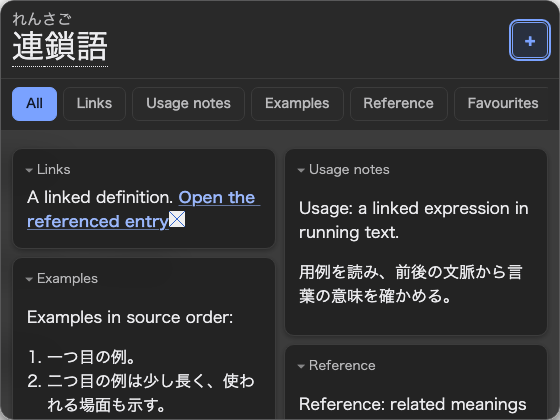
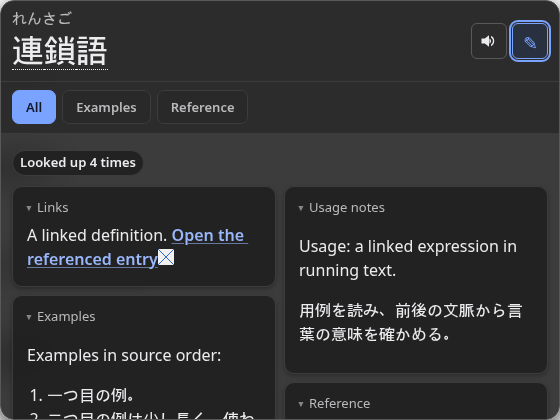
fix: limit popup tabs to favourites and groups

diff --git a/extension/render/popup.js b/extension/render/popup.js
@@ -1345,8 +1345,16 @@
       ? renderContext.dictionaryTabGroups : [];
     const dictionaryDisplayNames = createDictionaryDisplayNames(dictionaries, presentation);
     const available = new Set(dictionaries);
+    const grouped = new Set(groups.flatMap(({ dictionaries: members }) =>
+      Array.isArray(members) ? members : []));
+    const availableGroups = groups.flatMap((group) => {
+      const members = Array.isArray(group.dictionaries)
+        ? group.dictionaries.filter((title) => available.has(title)) : [];
+      return members.length > 0 ? [{ ...group, dictionaries: members }] : [];
+    });
     const favourites = presentation
-      .filter(({ favorite, title }) => favorite === true && available.has(title))
+      .filter(({ favorite, title }) =>
+        favorite === true && available.has(title) && !grouped.has(title))
       .map(({ title }) => title);
     const usedLabels = new Set();
     function tab(label, title, selection, members, qualifier) {
@@ -1364,21 +1372,15 @@
     }
     const tabs = [
       tab("All", "All dictionaries", null, [], "tab"),
-      ...dictionaries.map((dictionary) => tab(
+      ...availableGroups.map((group) => tab(
+        group.name, `Tab group: ${group.name}`,
+        { groupId: group.id }, group.dictionaries, "group",
+      )),
+      ...favourites.map((dictionary) => tab(
         dictionaryDisplayNames.get(dictionary) || dictionary,
         dictionary, { dictionary }, [dictionary], "dictionary",
       )),
     ];
-    if (favourites.length > 0) {
-      tabs.push(tab("Favourites", "Favourite dictionaries", { favourites: true }, favourites, "tab"));
-    }
-    for (const group of groups) {
-      const members = Array.isArray(group.dictionaries)
-        ? group.dictionaries.filter((title) => available.has(title)) : [];
-      if (members.length > 0) {
-        tabs.push(tab(group.name, `Tab group: ${group.name}`, { groupId: group.id }, members, "group"));
-      }
-    }
     return { tabs, dictionaryDisplayNames };
   }
 

diff --git a/docs/architecture.md b/docs/architecture.md
@@ -800,12 +800,14 @@ Local projection disconnects the superseded panel's
 observations before registering its replacements; Show more retains current
 observations while adding the newly displayed entries.
 
-Term views offer All, each contributing dictionary in native result order, one
-aggregate Favourites tab, then nonempty saved groups in their stored order.
-Favourites still contribute when they also belong to a group. Tabs project the
-already-returned results without changing their order or sending a lookup;
-aliases label tabs while canonical dictionary titles and stable group IDs own
-their selections. Colliding labels are qualified without changing membership.
+Term views offer All, nonempty saved groups in their stored order, then
+favourite dictionaries that do not already belong to a group. Other
+contributing dictionaries remain available through All without receiving their
+own tab, and grouped favourites do not receive duplicate dictionary tabs. Tabs
+project the already-returned results without changing their order or sending a
+lookup; aliases label tabs while canonical dictionary titles and stable group
+IDs own their selections. Colliding labels are qualified without changing
+membership.
 Linked and clicked-kanji requests copy that selection from their source view.
 The destination retains it only when it contributes results, otherwise adopting
 All; a child's fallback or later selection never rewrites its parent or Back
@@ -814,7 +816,9 @@ Content resolves saved group member IDs through the enabled package inventory
 using the shared D7 normalizer, including while a lookup reply is pending.
 
 Newer group, alias and favourite changes update the displayed view without
-invalidating its lookup token, media or styles. Keyed tab buttons keep their DOM
+invalidating its lookup token, media or styles. A view that started without a
+tab row does not create one when its first favourite or nonempty group is saved;
+that row appears on the next lookup. Existing keyed tab buttons keep their DOM
 identity and deliberate focus across renames and reordering. When the selected
 membership is unchanged, only labels change: glossary cards, expanded Details,
 metadata values, source highlights and Note controls remain mounted. Frequency

diff --git a/test/README.md b/test/README.md
@@ -959,9 +959,10 @@ focused and reachable, and a still-focused tab survives same-view refresh.
 `HACHIDORI_OPTIONS_SCREENSHOT` also includes the saved child-depth setting.
 
 `dictionaryTabsFixture()` extends that linked source with three unequal glossary
-cards, without changing the generated fixture files. Four Chrome checks project
-every contributing dictionary, aggregate favourites and ordered groups from the
-complete native result; warmed tab changes must issue no lookup, media or style
+cards, without changing the generated fixture files. Four Chrome projections
+cover All, ordered nonempty groups and an ungrouped favourite from the complete
+native result; ordinary contributors and grouped favourites receive no duplicate
+dictionary tabs. Warmed tab changes must issue no lookup, media or style
 requests. Linked-child, clicked-kanji and Back retain their semantic selection.
 Back also restores an expanded, scrolled child with a collapsed dictionary card,
 its prior tab, highlight and toolbar, without another native lookup; its next
